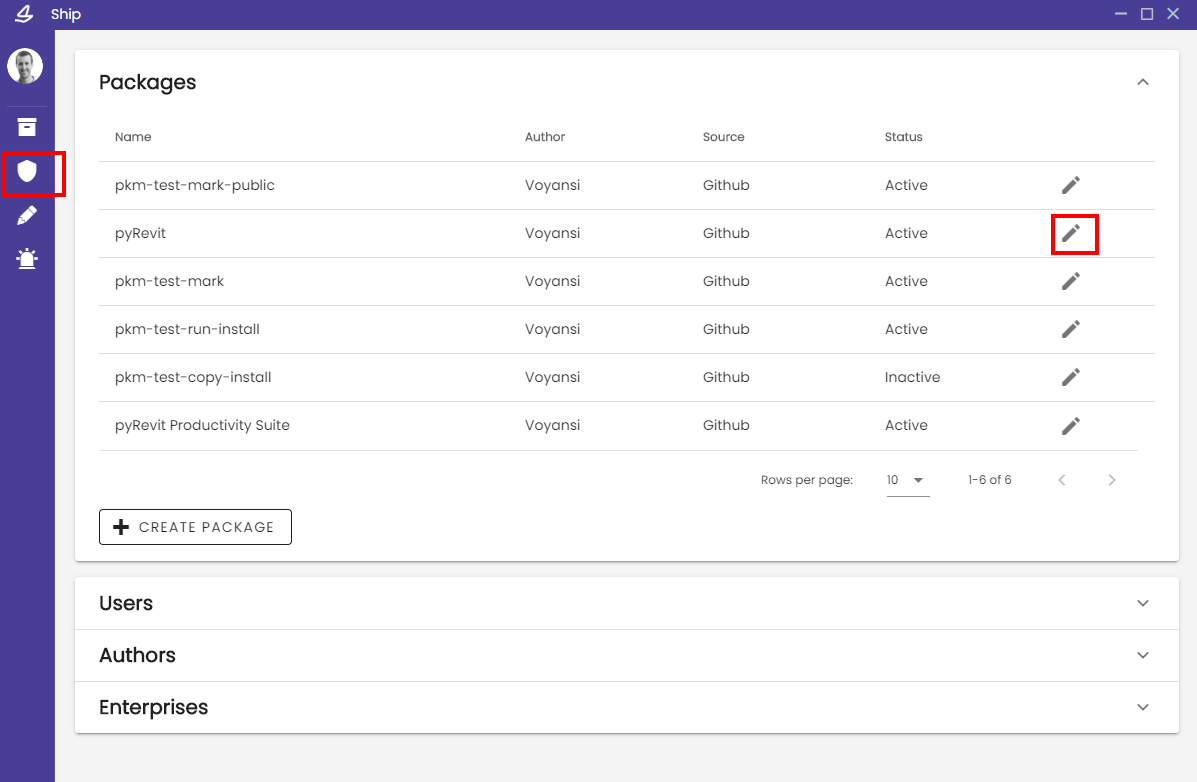
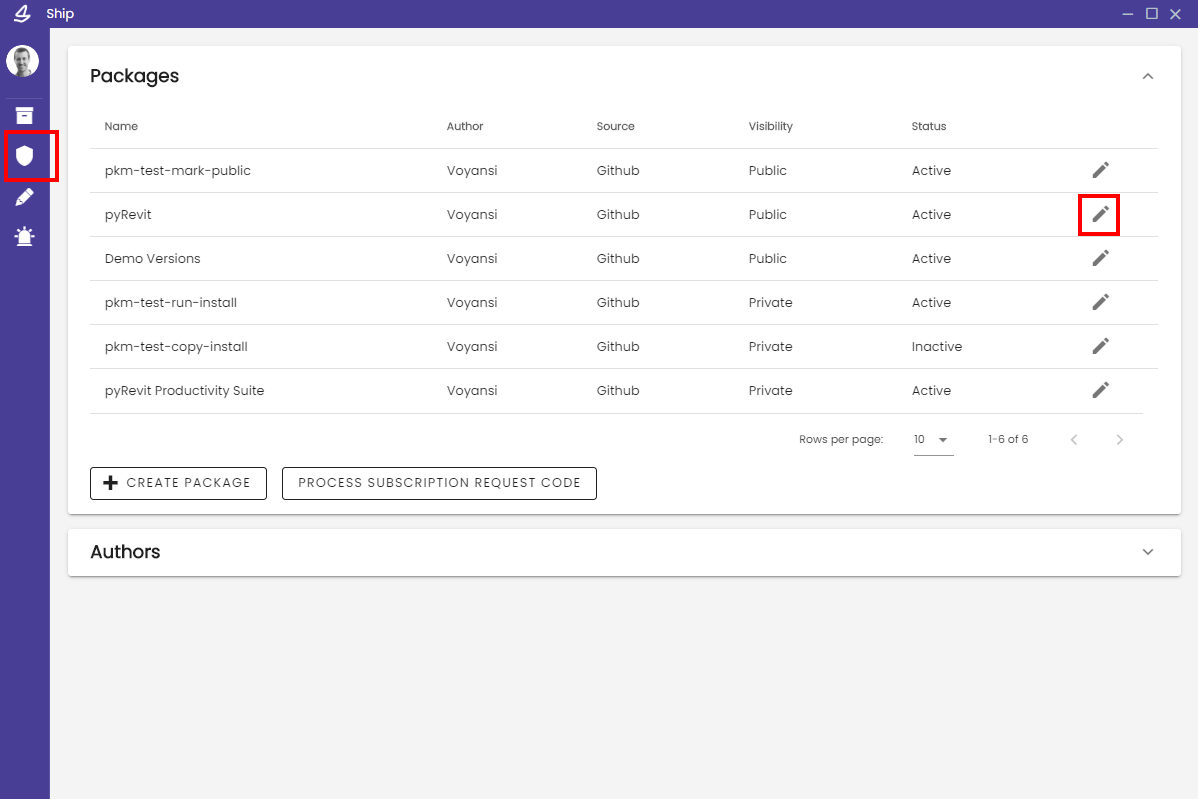
Added Enterprise feature documention
- also updated a few other screenshots with newer UI

diff --git a/docs/enterprise.md b/docs/enterprise.md
@@ -1,0 +1,101 @@
+[Go to Main Page](README.md)
+
+# Enterprise
+
+_Guide for enterprise users, managers, and developers_
+
+Ship's newest feature, Enterprise, gives organizations and developers a platform to come together to manage the distribution and access to private packages. Create collections of public and private packages for teams!
+
+![](images/browse-enterprise.png)
+
+**_\*\* This feature is currently in beta; contact a Ship administrator to inquire about setting up an Enterprise account for your organization._**
+
+## Create an Enterprise
+
+In the Admin window, expand the `Enterprises` window, and click "Create Enterprise".
+
+![](images/admin-enterprise-create1.png)
+
+Fill out information describing the organization and its members (you will be able to edit this later as well):
+
+![](images/admin-enterprise-create2.png)
+
+- `Enterprise Name`: the display name used to identify the organization
+- `Member Domains`: one or more email domains that will define the default members of the organization and their access to the Enterprise's private package subscriptions; Ship users must sign in with a provider that includes an email address (i.e. Google, email/password) in order for Ship to determine that their email domain matches an Enterprise's domain.
+- `Packages` (optional): select any number of Public packages to include in an Enterprise's package collection; [Private package subscriptions can be added later](#private-packages)
+- `External member emails` (optional): individual email address of members that don't have an approved member domain (e.g. consultants, guests)
+- `Image URL` (optinal): URL address of an image; if included, will be used in the Browse listings UI to identify the Enterprise package collection
+
+## Manage an Enterprise
+
+_\*\* Enterprise administrators are currently designated by Ship admins. Contact a Ship admin to add or remove admins for a given Enterprise._
+
+![](images/admin-panel-enterprise.png)
+
+In the Admin window, Enterprise admins will see an "Enterprises" panel with a list of Enterprises in which they have admin management acess.
+
+![](images/admin-enterprise-edit1.png)
+![](images/admin-enterprise-edit2.png)
+
+Under `Listing Data`, edit the Enterprise display name or logo image URL.
+
+Under `Configuration`, you can manage the membership criteria and package collection.
+
+#### Members
+
+The `Members` table will automatically include any Ship users whose email address domain is included in the Enterprise's configured **member domains**; these domain members cannot be individually removed.
+
+Explicitly-added external (non-domain) email address appear as well, and can be removed; use the "Add External Members" button to add new non-domain emails
+
+#### Packages
+
+_Jump to [Private Packages](#private-packages) to learn how to add them_
+
+The `Packages` table includes a list of all public and private packages that have been added to the Enterprise collection. Use the "Add Public Packages" button to search for and add any publicly-available package to the collection. Packages can be removed at any time.
+
+#### Member-Package Access
+
+The Packages and Members tables both have an `Access` column, together determining which packages will be available (i.e. visible) to each member from the Enterprise collection in their Browse view. The settings and effects are as follows:
+
+- Package > **Default**: package will be visible to all members
+- Package > **Custom**: package will only be visible to members whose Access is also set to Custom, and for whom the package is specifically enabled; note that any package, Public or Private, can be set to Custom access
+- Member > **Default**: member will see only the packages for which the Access setting is set to Default
+- Member > **Custom**: member will see all Default packages, plus any Custom packages specifically enabled in the member dropdown (toggle switch must be switched on)
+
+![](images/admin-enterprise-edit3.png)
+
+These settings allow for customized "sub-collections" that can be targeted to specific individuals within an Enterprise organization. This can be helpful when certain tools or packages, especially private ones, should be restricted in use to a smaller subset of the organization.
+
+## Private Packages
+
+Private packages can be added to an Enterprise through a request/approval process between an Enterprise and a package Author. This is to ensure that both parties retain control over which information is shared and with whom.
+
+_\*\* Currently, this process assumes that there is an existing line of communication between Enterprise and package Author (e.g. a client-contractor relationship), as it is intended for custom tooling collaborations created for an individual company. This is required in order to send the request code described below (e.g. email)._
+
+The process begins by an Enterprise admin generating a request code from the Admin window > Enterprise edit page:
+
+![](images/admin-enterprise-generate-request-code1.png)
+![](images/admin-enterprise-generate-request-code2.png)
+
+This request code is a token that will be given to the Author and used to authenticate the Enterprise. Copy and paste the code, and send it to the package Author to redeem.
+
+Once the Author has been given the request code, they can process it from their Admin window > Packages panel:
+
+![](images/admin-process-request-code-1.png)
+![](images/admin-process-request-code-2.png)
+
+The request code is first validated to ensure that it refers to the correct Enterprise. Now the Author can select one or more of their Packages which will be added to the Enterprise's subscriptions:
+
+![](images/admin-process-request-code-3.png)
+
+Once the request has been fully processed, the Author will see the Enterprise as a subscriber in the Admin window > Package edit page:
+
+![](images/admin-package-edit-subscribers.png)
+
+Similarly, the Package will now appear in the Enterprise admin page:
+
+![](images/admin-enterprise-generate-request-code3.png)
+
+A private package subscription can be retracted at any time by either party (Enterprise admin or package Author), from their respective admin pages.
+
+The request/approval process can be used as often as needed to add (or re-add) private package subscriptions.

diff --git a/docs/package-management.md b/docs/package-management.md
@@ -114,16 +114,18 @@ To publish the package and make it available for others to install, edit the pac
 
 Inside the package editor, you will find options to change and add metadata, as well as set the package status to "Active".
 
-![](images/admin-package-edit.png)
+![](images/admin-package-edit1.png)
+![](images/admin-package-edit2.png)
 
 - `Name`: the package display name that will be used throughout the app; this defaults to the GitHub repository name unless otherwise specified
 - `Description`: describe your package features or include any miscellaneous metadata
-- `Releases available`: choose which releases from the repository to make available to download via the package details panel
-- `Package Dependencies`: choose which, if any, other packages are required dependencies in order to use your package; if a user tries to install your package while missing its dependencies, they will be prompted to either have the dependencies installed automatically or to ignore the warning and manage dependencies manually
 - `Tags`: add helpful keywords and categories that others can use to search for and find your package
 - `Website URL`: optionally link to a website with more information about your package
 - `Image URLs`: add one or more images (separately hosted URL links) to illustrate your package, shown in the package Details panel; the first image will also be used as the thumbnail image throughout the app (you can drag-drop the images to rearrange them)
-- `Inactive | Active`: controls the visibility of your package in the Browse listings
+- `Releases available`: choose which releases from the repository to make available to download via the package details panel
+- `Package Dependencies`: choose which, if any, other packages are required dependencies in order to use your package; if a user tries to install your package while missing its dependencies, they will be prompted to either have the dependencies installed automatically or to ignore the warning and manage dependencies manually
+- `Visibility`: **Public** packages are visible to everyone by default; **Private** packages are only visible to approved subscribers (e.g. Enterprises); see [Enterprise](enterprise.md) for more details
+- `Status`: global access control; **Active** status accessibility will be controlled by Visibility setting
 
 ### Test Install / Uninstall Behavior
 
@@ -141,3 +143,4 @@ You can also edit metadata for authors available in your Admin panel:
 - `Description`: add information about the author or miscellaneous data
 - `Website`: a website for the author; defaults to the GitHub profile URL
 - `Profile Image`: a URL to a thumbnail image for the author used throughout the app; defaults to the GitHub account's profile thumbnail, if available
+- `Sources`: currently this is auto-populated with the Github owner (e.g. organization) from which repositories/packages are authored; future development plans may include the ability to add/merge additional sources into one Author profile

diff --git a/docs/README.md b/docs/README.md
@@ -6,6 +6,8 @@ _An open-source AEC standard for tool deployment and management_
 
 [Publish and Manage Packages](package-management.md)
 
+[Enterprise Features (new!)](enterprise.md)
+
 [Contribute to Core Development](core-development.md)
 
 [Privacy Policy](privacy-policy.md)
